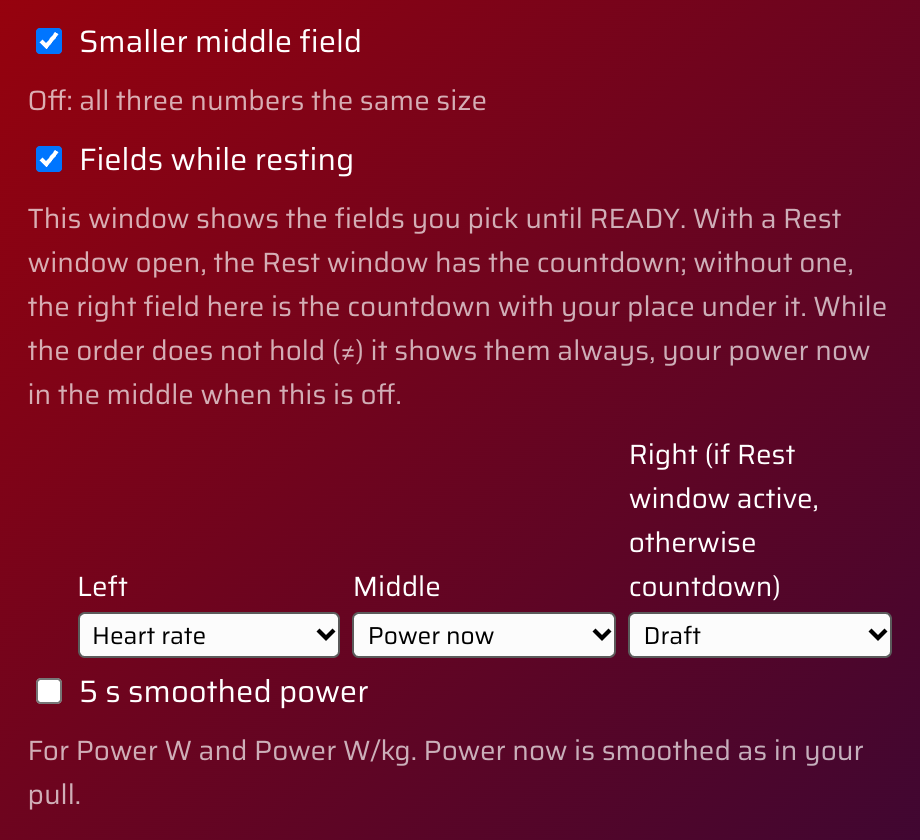
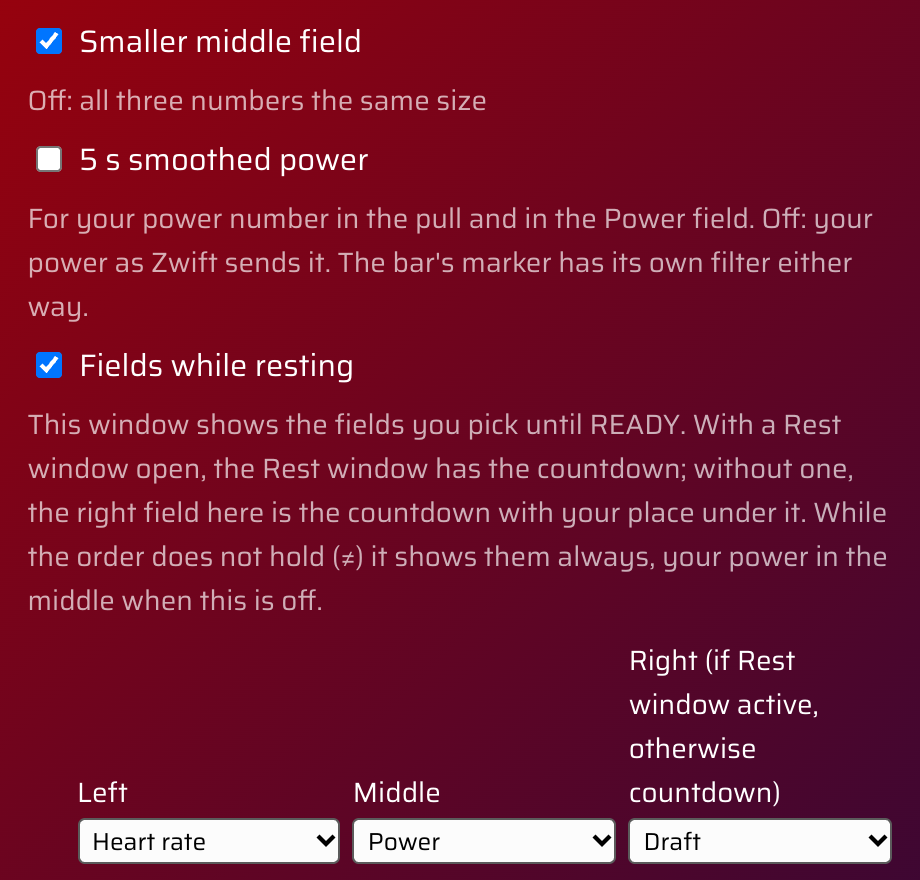
Promote next to production: mod 0.3.6, server 0.5.1
Snapshot of 00eaed59.

diff --git a/pages/settings.html b/pages/settings.html
@@ -62,15 +62,15 @@
                         <div class="pl-action-only">
                             <label class="pl-check"><input type="checkbox" name="midSmall" checked/> <span data-s="midSmallLabel"></span></label>
                             <div class="pl-note" data-s="midSmallHelp"></div>
+                            <label class="pl-check"><input type="checkbox" name="recSmooth5"/> <span data-s="recSmooth5Label"></span></label>
+                            <div class="pl-note" data-s="recSmooth5Help"></div>
                             <label class="pl-check"><input type="checkbox" name="recFields"/> <span data-s="recFieldsLabel"></span></label>
                             <div class="pl-note" data-s="recFieldsHelp"></div>
                             <div class="pl-rec-slots">
                                 <label class="pl-rec-slot"><span data-s="recLeftLabel"></span>
                                     <select name="recLeft" data-depends-on="recFields">
                                         <option value="off" selected data-s="recOff"></option>
-                                        <option value="now" data-s="recNow"></option>
-                                        <option value="powerW" data-s="recPowerW"></option>
-                                        <option value="powerWkg" data-s="recPowerWkg"></option>
+                                        <option value="power" data-s="recPower"></option>
                                         <option value="draft" data-s="recDraft"></option>
                                         <option value="speed" data-s="recSpeed"></option>
                                         <option value="cadence" data-s="recCadence"></option>
@@ -80,9 +80,7 @@
                                 <label class="pl-rec-slot"><span data-s="recMidLabel"></span>
                                     <select name="recMid" data-depends-on="recFields">
                                         <option value="off" data-s="recOff"></option>
-                                        <option value="now" selected data-s="recNow"></option>
-                                        <option value="powerW" data-s="recPowerW"></option>
-                                        <option value="powerWkg" data-s="recPowerWkg"></option>
+                                        <option value="power" selected data-s="recPower"></option>
                                         <option value="draft" data-s="recDraft"></option>
                                         <option value="speed" data-s="recSpeed"></option>
                                         <option value="cadence" data-s="recCadence"></option>
@@ -92,9 +90,7 @@
                                 <label class="pl-rec-slot"><span data-s="recRightLabel"></span>
                                     <select name="recRight" data-depends-on="recFields">
                                         <option value="off" selected data-s="recOff"></option>
-                                        <option value="now" data-s="recNow"></option>
-                                        <option value="powerW" data-s="recPowerW"></option>
-                                        <option value="powerWkg" data-s="recPowerWkg"></option>
+                                        <option value="power" data-s="recPower"></option>
                                         <option value="draft" data-s="recDraft"></option>
                                         <option value="speed" data-s="recSpeed"></option>
                                         <option value="cadence" data-s="recCadence"></option>
@@ -102,8 +98,6 @@
                                         <option value="grade" data-s="recGrade"></option>
                                     </select></label>
                             </div>
-                            <label class="pl-check pl-sub"><input type="checkbox" name="recSmooth5" data-depends-on="recFields"/> <span data-s="recSmooth5Label"></span></label>
-                            <div class="pl-note" data-s="recSmooth5Help"></div>
                         </div>
                     </form>
                 </div>

diff --git a/docs/guide.md b/docs/guide.md
@@ -271,9 +271,10 @@ or wider and they grow.
   is smoothed over a few seconds, and the marker only moves once that is more than 2 % (about 5 W)
   away from where it stands. So it keeps still while you ride on target, and a real drop of 10 %
   shows after about 4 seconds. Its colour is the zone it is in. In the first seconds of your pull,
-  while you ramp up, the marker stays white. The number in the middle is the marker's value, in the
-  marker's colour. It is the same filtered power, so the two always agree. It is kept small on
-  purpose, so the bar stays what you ride by and the number only confirms it. Without pull watts in
+  while you ramp up, the marker stays white. The number in the middle is your power as Zwift sends
+  it, once a second, like other live-data windows, in the marker's colour. Tick **5 s smoothed
+  power** to see the average of the last 5 seconds instead. The number moves more than the marker:
+  ride by the bar, the number only tells you what you push. It is kept small on purpose. Without pull watts in
   the plan, neither in the JSON nor from a text export, there is no target. You then see `–` as the
   target, your power now, the time and a plain grey bar.
 - **Smaller middle field**: the middle number is drawn a little smaller than the two at the sides.
@@ -322,26 +323,23 @@ one shows:
 | Choice | Shows | Unit line |
 |---|---|---|
 | **Off** | an empty field, it keeps its place | |
-| **Power now** | your power as in your pull: W/kg or W as you set **Pull target**, smoothed the same way | `power` |
-| **Power W** | your power in whole watts | `W` |
-| **Power W/kg** | your power with one decimal | `W/kg` |
+| **Power** | your power, the same number as in your pull: W/kg with one decimal or whole watts as you set **Pull target** | `power` |
 | **Draft** | the watts of your draft, whole number | `draft` |
 | **Speed** | km/h, no decimals | `km/h` |
 | **Cadence** | your cadence, whole number | `rpm` |
 | **Heart rate** | your heart rate, whole number | `bpm` |
 | **Grade** | one decimal, `0.0` for flat | `%` |
 
-By default the middle field is **Power now** and the left and right ones are **Off**, so the number
-does not change its kind or jump when your pull starts. **Power W** and **Power W/kg** are your
-power right now. Tick **5 s smoothed power** for the average of the last 5 seconds. **Power now** is
-smoothed as in your pull and ignores that box. A value Paceline does not have shows a dim `–`, for
-example no heart rate or cadence from a power-only trainer, or no weight for W/kg. There is no
-countdown to pick: with a Rest window open, the countdown is the Rest window's. The fields show
+By default the middle field is **Power** and the left and right ones are **Off**, so the number
+does not change its kind when your pull starts. It is your power as Zwift sends it, or the average
+of the last 5 seconds with **5 s smoothed power** ticked, as in your pull. Without a weight it shows
+watts. A value Paceline does not have shows a dim `–`, for example no heart rate or cadence from a
+power-only trainer. There is no countdown to pick: with a Rest window open, the countdown is the Rest window's. The fields show
 until READY, the last 10 seconds before your pull. From then on the window shows READY and your pull
 as always. A climb or descent (the Rest window shows `▲` or `▼`) does not change them, and they keep
 showing live values.
 
-<img src="images/settings-action.png" width="420" alt="The Action window's settings: Smaller middle field ticked, Fields while resting ticked with Heart rate on the left, Power now in the middle and Draft on the right (labelled: if Rest window active, otherwise countdown), and the 5 s smoothed power box">
+<img src="images/settings-action.png" width="420" alt="The Action window's settings: Smaller middle field ticked, the 5 s smoothed power box, Fields while resting ticked with Heart rate on the left, Power in the middle and Draft on the right (labelled: if Rest window active, otherwise countdown)">
 
 Without a Rest window, or with one that has no countdown yet, the countdown is the right field. The
 number is on top and your place under it (`13` over `#2`, `3:59` over `#6`). While the clock stands

diff --git a/CHANGES.md b/CHANGES.md
@@ -20,6 +20,14 @@ store and both parts for the GitHub and GitLab releases (`node scripts/changes.m
 
 ### Server
 
+## 0.3.6 (2026-11-24)
+
+### Mod
+- Your power number in the Action window is your power as Zwift sends it (or 5 s smoothed with "5 s smoothed power"), like other live-data windows; only the bar's marker stays filtered.
+- The resting fields have one Power choice in your Pull target unit instead of Power now, Power W and Power W/kg; a field set to one of those shows Power.
+
+### Server
+
 ## 0.3.5 (2026-11-24)
 
 ### Mod

diff --git a/README.md b/README.md
@@ -1,6 +1,6 @@
 <img src="docs/images/banner.png" width="100%" alt="Paceline, hand-drawn on a notebook page: four riders in a line seen from above, an orange arrow showing the rotation, and a team plan in time@W/kg with crossed-out and corrected pulls">
 
-# Paceline 0.3.5
+# Paceline 0.3.6
 
 Paceline is a mod for Sauce for Zwift that carries your team's TTT plan into the ride. It shows who
 is pulling, the countdown to your pull and, during your pull, your target and a power bar. It also
